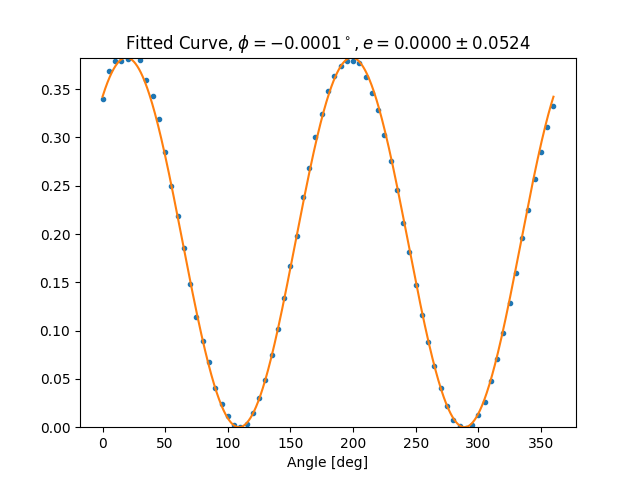
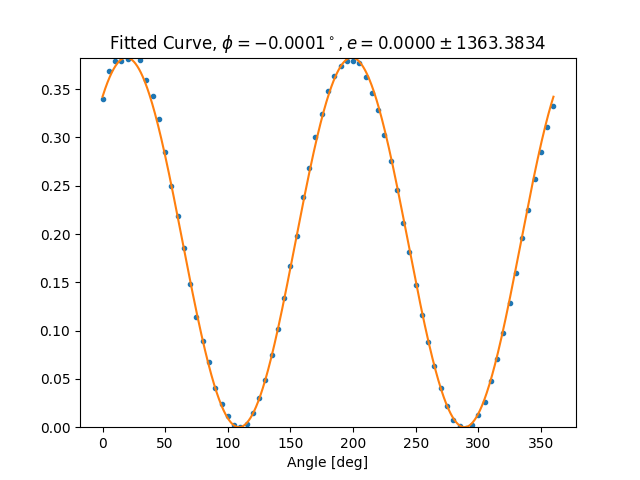
edited uncertainty measurement
now has covariance added in quadrature

Changed region(s): [[0.4688, 0.0625, 0.8438, 0.125], [0.1562, 0.0625, 0.4375, 0.125]]

diff --git a/Polarization_calc.py b/Polarization_calc.py
@@ -202,8 +202,8 @@ class pol_analysis:
         # Traditional error propgation using resolution + covariance (?)
         
         phi = self.param[0]
-        sigma_phi = 3*np.pi/180 # \pm 3 degrees resolution?
-        # sigma_phi_2 = np.sqrt(self.param_cov[0,0]) # covariance of fitting phi (independent? quadrature?)
+        sigma_phi = 2*np.pi/180 # \pm 2 degrees resolution?
+        sigma_phi_2 = np.sqrt(self.param_cov[0,0]) # covariance of fitting phi (independent? quadrature?)
 
         c = np.abs(np.cos(2*phi)) # factor for ellip calculation below
         ellip = np.sqrt((1-c) / (1+c))
@@ -213,7 +213,7 @@ class pol_analysis:
             deriv = 1.0
         else:
             deriv = (2 * np.abs(np.sin(2 * phi)) / (np.sqrt(1 - c) * (1 + c)**1.5))
-        ellip_unc = deriv * sigma_phi
+        ellip_unc = np.sqrt((deriv * sigma_phi)**2 + (sigma_phi_2)**2)
 
         return ellip, ellip_unc
 
